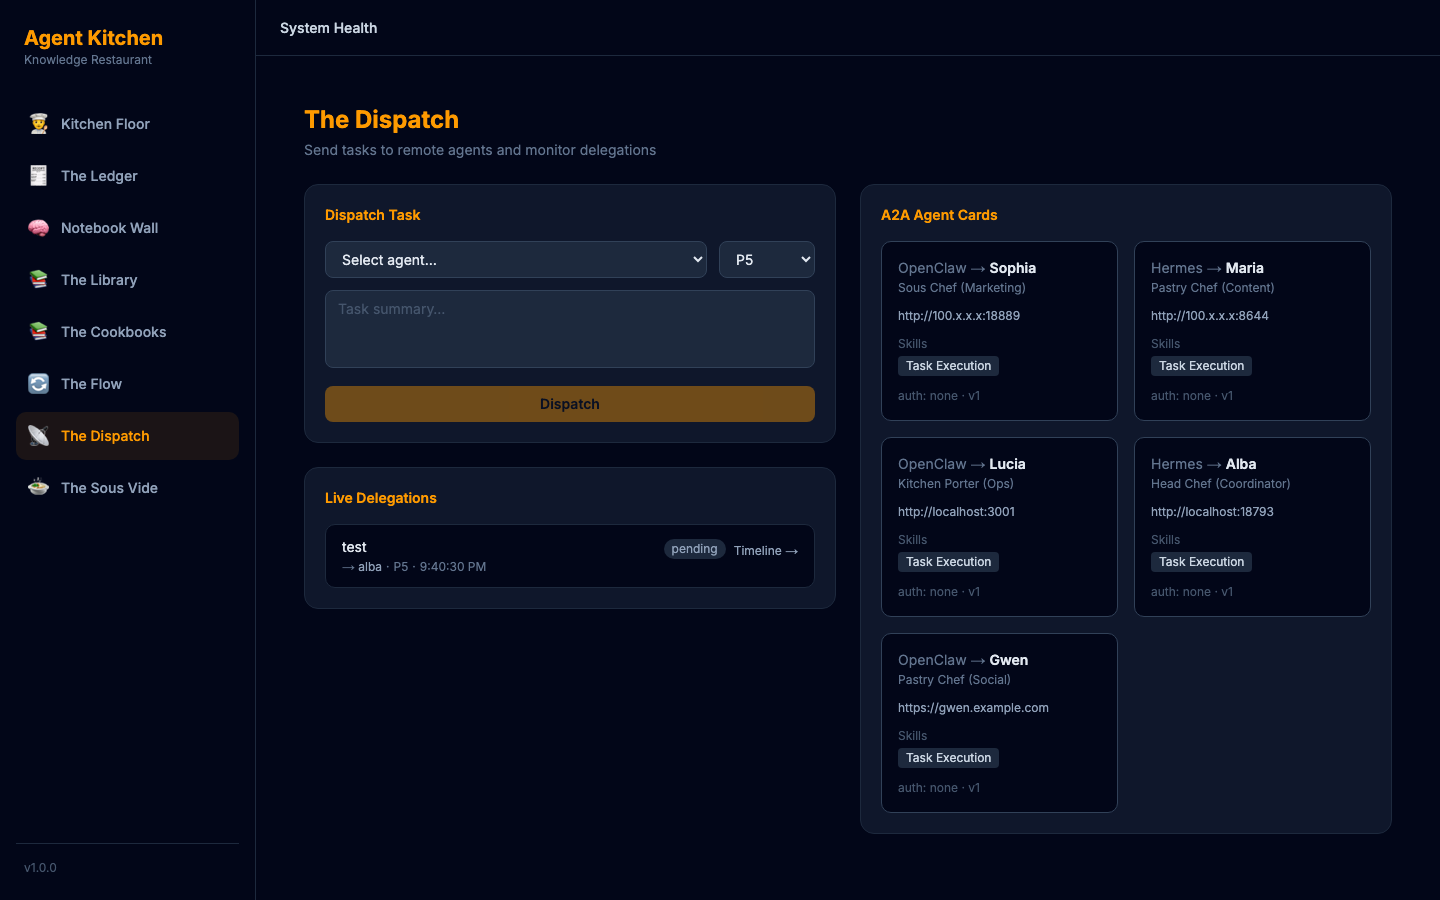
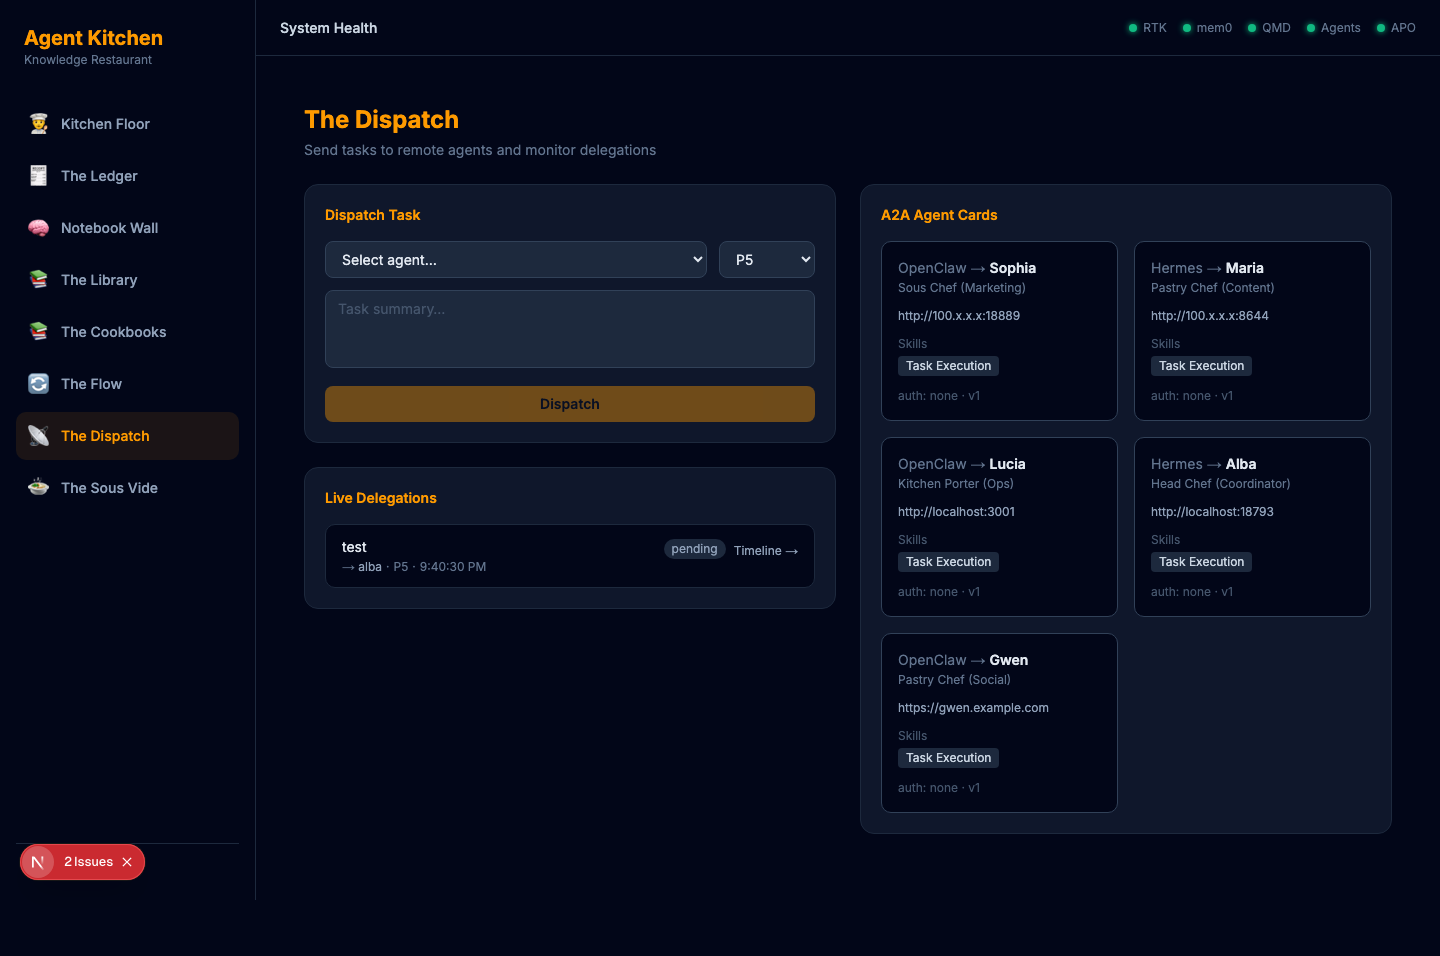
docs: redo screenshots with agents fully loaded + add cookbooks

diff --git a/README.md b/README.md
@@ -38,6 +38,8 @@ All data is fetched **live** from your filesystem and HTTP endpoints. No databas
 | ![Library](./docs/screenshots/library.png) | |
 | **Notebook Wall** (`/notebooks`) | Memory explorer — auto-memory files, daily notes, activity heatmap |
 | ![Notebooks](./docs/screenshots/notebooks.png) | |
+| **The Cookbooks** (`/cookbooks`) | Agent skill library — browse, install, and manage agent capabilities |
+| ![Cookbooks](./docs/screenshots/cookbooks.png) | |
 | **The Sous Vide** (`/apo`) | Agent Lightning APO — self-learning proposals, cron cycle stats, log viewer |
 | ![APO](./docs/screenshots/apo.png) | |
 | **The Dispatch** (`/dispatch`) | Send tasks to remote agents, view delegation status, lineage timeline |
